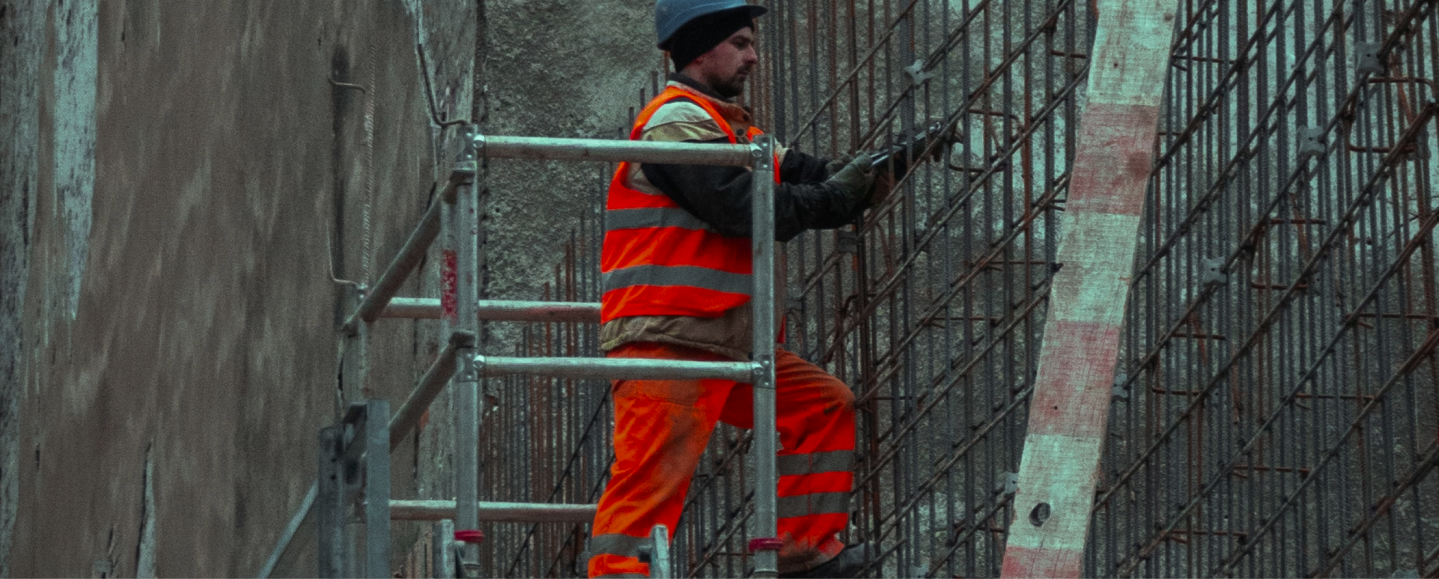
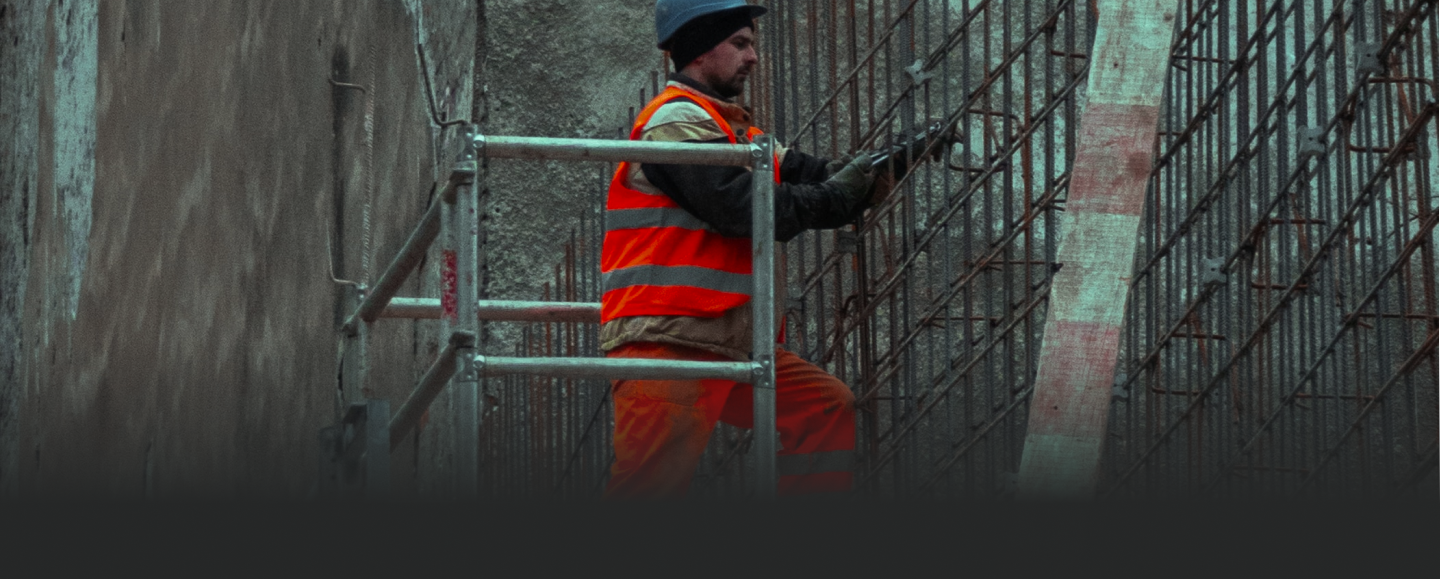
hero section beranda page, custom font family

diff --git a/src/App.css b/src/App.css
@@ -1,38 +1,4 @@
-.App {
-  text-align: center;
-}
+@import url('https://fonts.googleapis.com/css2?family=Montserrat:ital,wght@0,100;0,200;0,300;0,400;0,500;0,600;0,700;0,800;0,900;1,100;1,200;1,300;1,400;1,500;1,600;1,700;1,800;1,900&display=swap');
 
-.App-logo {
-  height: 40vmin;
-  pointer-events: none;
-}
+@import url('https://fonts.googleapis.com/css2?family=Poppins:ital,wght@0,100;0,200;0,300;0,400;0,500;0,600;0,700;0,800;0,900;1,100;1,200;1,300;1,400;1,500;1,600;1,700;1,800;1,900&display=swap');
 
-@media (prefers-reduced-motion: no-preference) {
-  .App-logo {
-    animation: App-logo-spin infinite 20s linear;
-  }
-}
-
-.App-header {
-  background-color: #282c34;
-  min-height: 100vh;
-  display: flex;
-  flex-direction: column;
-  align-items: center;
-  justify-content: center;
-  font-size: calc(10px + 2vmin);
-  color: white;
-}
-
-.App-link {
-  color: #61dafb;
-}
-
-@keyframes App-logo-spin {
-  from {
-    transform: rotate(0deg);
-  }
-  to {
-    transform: rotate(360deg);
-  }
-}

diff --git a/src/views/Beranda.js b/src/views/Beranda.js
@@ -1,13 +1,26 @@
 import React from 'react';
 // import { NavLink } from 'react-router-dom';
+// import './../style/Beranda.css'
+
+import HeroImage from './../assets/image-hero1.png'
 
 
 function Beranda(props) {
+
   return (
     <>
 
-      <div style={{ backgroundColor: 'cyan' }} className='d-flex justify-content-center align-items-center min-vh-100  text-white'>
-        <h1>Halo ini halaman beranda awal</h1>
+      <div style={{ fontFamily: 'Montserrat' }}>
+
+
+        <div style={{ borderRadius: '0' }} className="card bg-dark text-white ">
+          <img src={HeroImage} style={{ minHeight: '578.93px', objectFit: 'cover' }} className="" alt="gambar" />
+          <div className="mb-3 w-75 text-center mx-auto card-img-overlay d-flex justify-content-center align-items-end">
+            <h5 style={{ fontSize: '36px' }} className="card-title fw-bolder">SOLUSI TEPAT SELESAIKAN PROYEK BERSAMA MITRA PRONEK</h5>
+          </div>
+        </div>
+
+
       </div>
 
 

diff --git a/src/style/Beranda.css b/src/style/Beranda.css
@@ -1,0 +1,46 @@
+.banner {
+  margin-top: 30px;
+}
+
+.banner .card {
+  width: 1044px;
+  height: 600px;
+  border: none;
+}
+
+.banner .card img {
+  border-radius: 14px;
+  width: 100%;
+  height: auto;
+  align-items: center;
+}
+
+.banner .card .text {
+  margin: 0 0 50px 50px;
+}
+
+@media (max-width: 576px) {
+  .banner .card .text {
+    margin: 0 0 10px 10px;
+  }
+}
+
+.banner .card .card-title {
+  font-style: normal;
+  font-weight: 500;
+  font-size: 32px;
+  line-height: 40px;
+}
+
+@media (max-width: 576px) {
+  .banner .card .card-title {
+    font-size: 28px;
+  }
+}
+
+.banner .card .card-text {
+  font-style: normal;
+  font-weight: normal;
+  font-size: 18px;
+  line-height: 27px;
+}

diff --git a/src/component/navbar/Navbar.js b/src/component/navbar/Navbar.js
@@ -23,7 +23,7 @@ function Navbar(props) {
 
   return (
     <>
-      <nav style={{ backgroundColor: '#010032' }} className="navbar navbar-expand-lg navbar-dark">
+      <nav style={{ backgroundColor: '#010032', fontFamily: 'Poppins' }} className="navbar navbar-expand-lg navbar-dark">
         <div className="container-fluid ps-0 pe-4 py-2">
           <NavLink style={imgNavbar} to="/" className="navbar-brand bg-white">
             <img src={NavbarLogo} alt="Logo Pronek" className='mx-5 my-2' />

diff --git a/src/App.js b/src/App.js
@@ -1,5 +1,6 @@
 import React, { useEffect } from 'react';
 import Router from './router';
+import './App.css'
 
 function App() {
 
